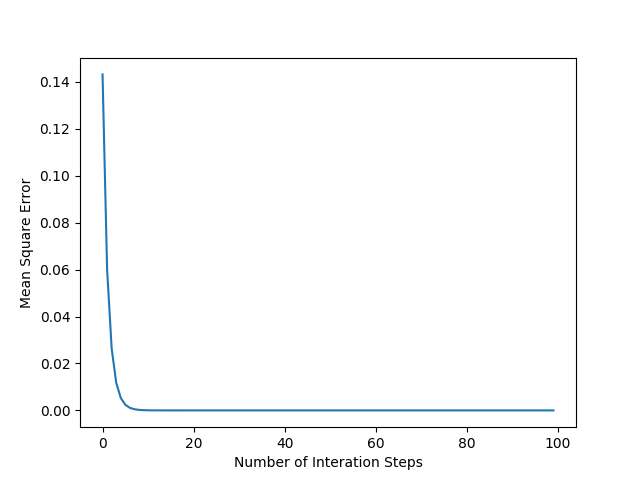
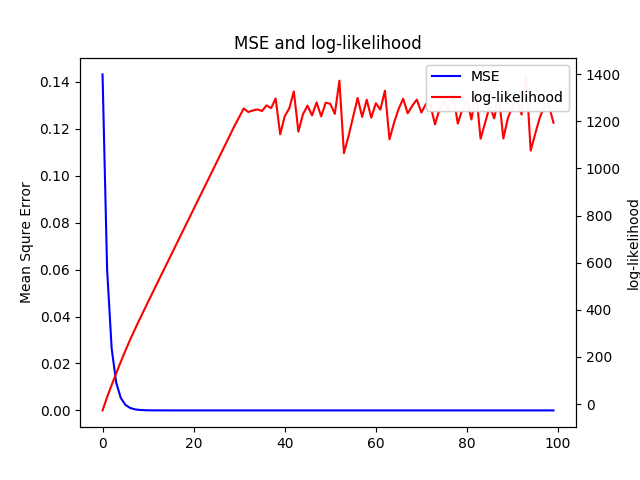
add MLE

diff --git a/EMalgorithm_run.py b/EMalgorithm_run.py
@@ -14,12 +14,37 @@ print('The dimension of Z is:'+str(Z.shape))
 
 EM = EMalgorithm.EM(maxItr=100)
 EM.fit(y=y,X=X,Z=Z)
-history = EM.history
+beta_history = EM.beta_history
+loglikelihood_history = EM.loglikelihood_history
+print(loglikelihood_history)
 MSE=[]
-for i in history:
+for i in beta_history:
 	MSE.append(0.5*np.linalg.norm(i.reshape(2,1)-beta.reshape(2,1))**2)
 
-plt.plot(MSE)
-plt.xlabel('Number of Interation Steps')
-plt.ylabel('Mean Square Error')
+
+
+fig = plt.figure()
+
+ax1 = fig.add_subplot(111)
+line1, =ax1.plot(MSE,'b', label="MSE")
+ax1.set_ylabel('Mean Squre Error')
+ax1.set_title("MSE and log-likelihood")
+
+ax2 = ax1.twinx()  # this is the important function
+line2, =ax2.plot(loglikelihood_history, 'r', label = "log-likelihood")
+ax2.set_ylabel('log-likelihood')
+ax2.set_xlabel('Number of Iteration Steps')
+ax2.legend(["MSE: 'blue' ",
+            "log-likelihood:, 'red'"],
+           loc='upper left')
+
+
+
+first_legend = plt.legend(handles=[line1,line2], loc=1)
+
+# Add the legend manually to the current Axes.
+ax = plt.gca().add_artist(first_legend)
+
+# Create another legend for the second line.
+
 plt.show()

diff --git a/EMalgorithm.py b/EMalgorithm.py
@@ -29,11 +29,13 @@ class EM:
         self.beta = np.zeros((self.p, 1))
         self.sigma_u = 0.1
         self.sigma_epsilon = 0.1
-        self.history=[]
+        self.beta_history=[]
+        self.loglikelihood_history=[]
         for _ in xrange(0, self.maxItr):
         	u,utu = self.Estep()
         	self.Mstep(u,utu)
-        	self.history.append(self.beta)
+        	self.beta_history.append(self.beta)
+        	self.loglikelihood_history.append(self.get_loglikelihood(u,utu))
 
     def Estep(self):
     	#print("_____EStep______")
@@ -57,5 +59,13 @@ class EM:
     	self.sigma_epsilon = math.sqrt((temp.T.dot(temp))/self.n)
     	self.beta = np.linalg.pinv(self.X.T.dot(
     			self.X)).dot(self.X.T).dot(self.y-self.Z.dot(u))
+
+    def get_loglikelihood(self, u, utu):
+    	temp = self.y-self.X.dot(self.beta)-self.Z.dot(u) 
+    	LE = -self.n*math.log(self.sigma_epsilon)-self.q*math.log(self.sigma_u)\
+    			-temp.T.dot(temp)/(2*self.sigma_u**2)\
+    			-utu/(2*self.sigma_u**2)
+    	return float(LE)
+
 
 
